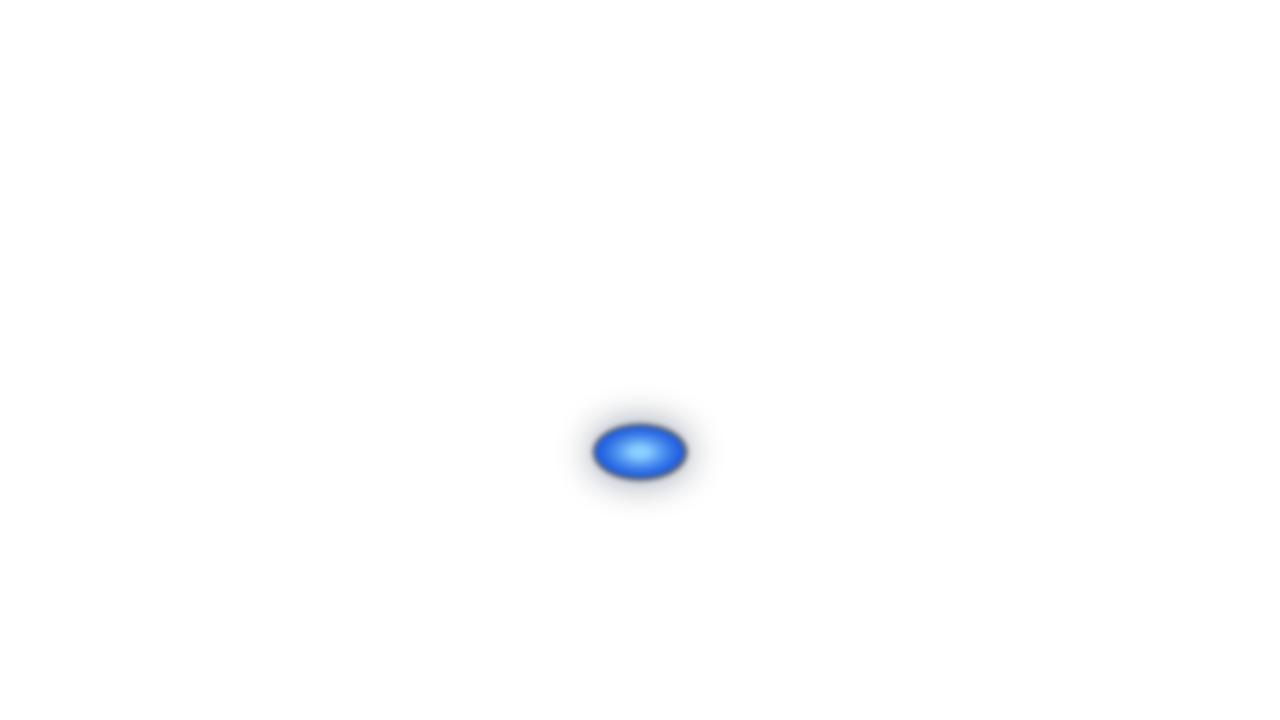
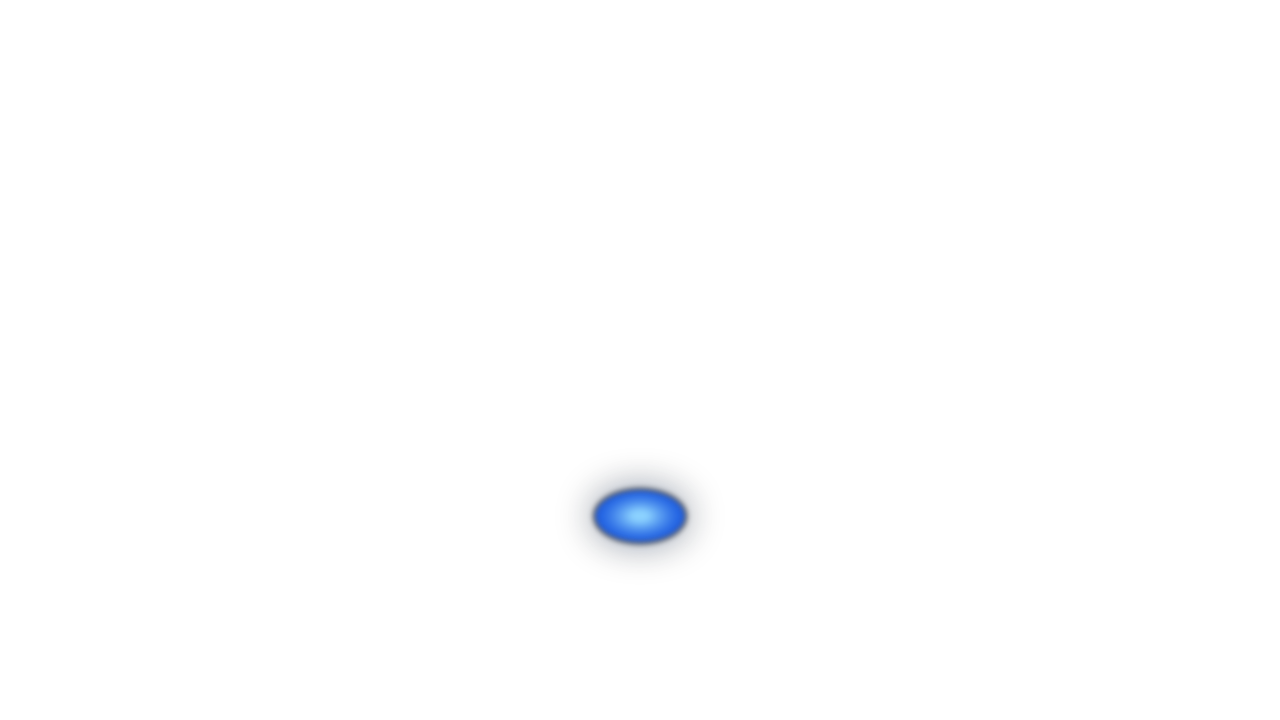
clara: wider eye spacing, a touch of extra pupil width so it reads round inside the almond, and the mouth dropped to leave room for a nose

Changed region(s): [[0.4375, 0.55, 0.5625, 0.7944]]

diff --git a/faces/clara/generate_art.py b/faces/clara/generate_art.py
@@ -25,11 +25,11 @@ MID = (60, 150, 255)
 CORE = (140, 210, 255)       # centre, brightest
 
 EYE_CY = 300                 # both eyes sit on this line
-EYE_L_CX, EYE_R_CX = 498, 782
+EYE_L_CX, EYE_R_CX = 478, 802
 EYE_RX, EYE_RY = 70, 34      # half width and half height of an eye
 EYE_TILT = 7                 # outer corners lifted, like EVE's
 
-MOUTH_CX, MOUTH_CY = 640, 452
+MOUTH_CX, MOUTH_CY = 640, 516
 
 # viseme key -> (half width, half height). Six images cover all twelve shapes.
 MOUTHS = {
@@ -70,7 +70,9 @@ def glow_oval(cx, cy, rx, ry, tilt_deg=0.0):
 # the slit pupil replaced by a round one. Only the colour scale and the pupil change,
 # so the fibre detail of the original survives.
 TEMPLATE_EYE = os.path.join(os.path.dirname(HERE), "cat", "eye")
-EYE_N = 160                  # the round pupil map and lid masks are square, this many pixels
+EYE_N = 160                  # the pupil map and lid masks are square, this many pixels
+PUPIL_ASPECT = 1.06          # the pupil is round, but a wide almond around it reads as
+                             # taller than wide; a touch of extra width cancels that
 # luminance of the template maps onto this ramp: dark rim, ice blue body, white core
 ICE_RAMP = [(0.00, (6, 20, 44)), (0.35, (26, 96, 170)), (0.65, (110, 198, 242)),
             (1.00, (234, 250, 255))]
@@ -102,10 +104,12 @@ def recolour_iris(path):
 
 
 def pupil_map():
-    """Round pupil: a plain radial distance field, dark at the centre."""
+    """Round pupil: a radial distance field, dark at the centre. PUPIL_ASPECT widens it
+    a little so it looks round inside the almond rather than measuring round."""
     import numpy as np
     g = (np.arange(EYE_N) + 0.5) / EYE_N * 2 - 1
-    r = np.hypot(*np.meshgrid(g, g, indexing="xy"))
+    x, y = np.meshgrid(g, g, indexing="xy")
+    r = np.hypot(x / PUPIL_ASPECT, y)
     return Image.fromarray((np.clip(r, 0, 1) * 255).astype("uint8"), "L")
 
 
